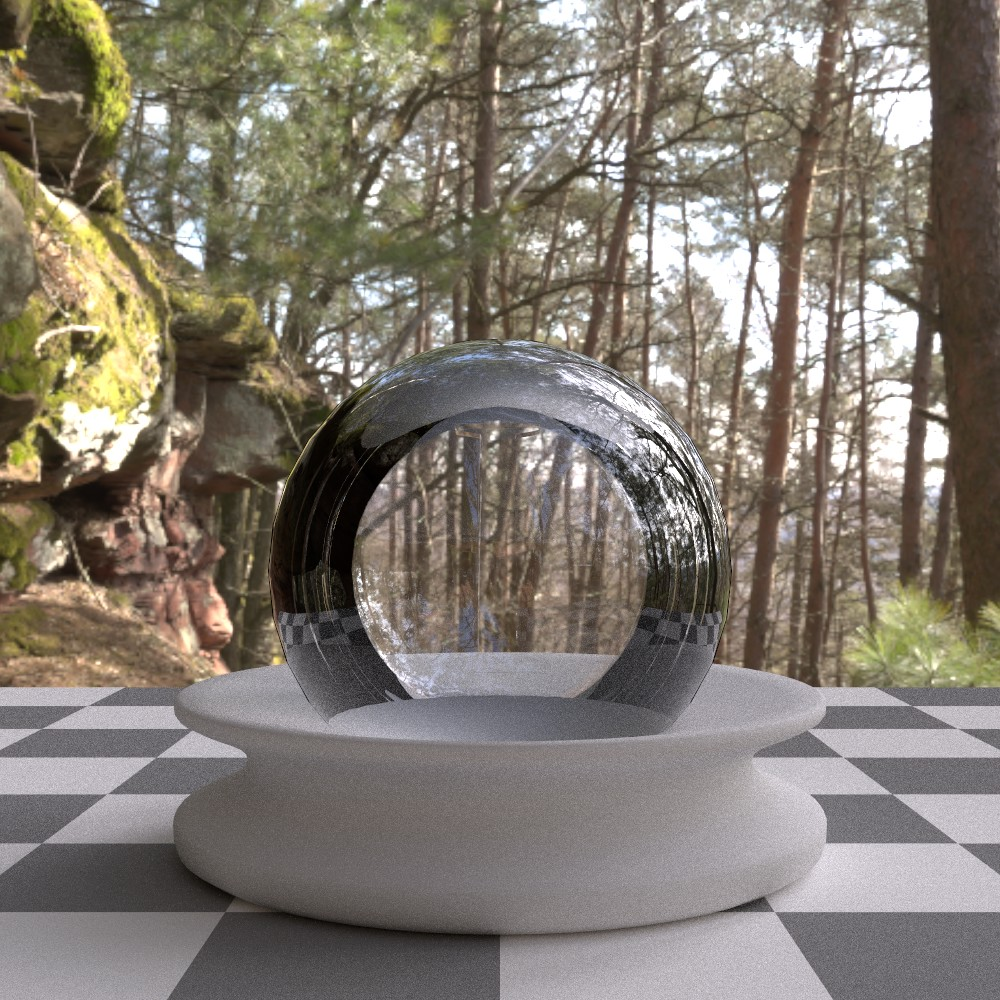
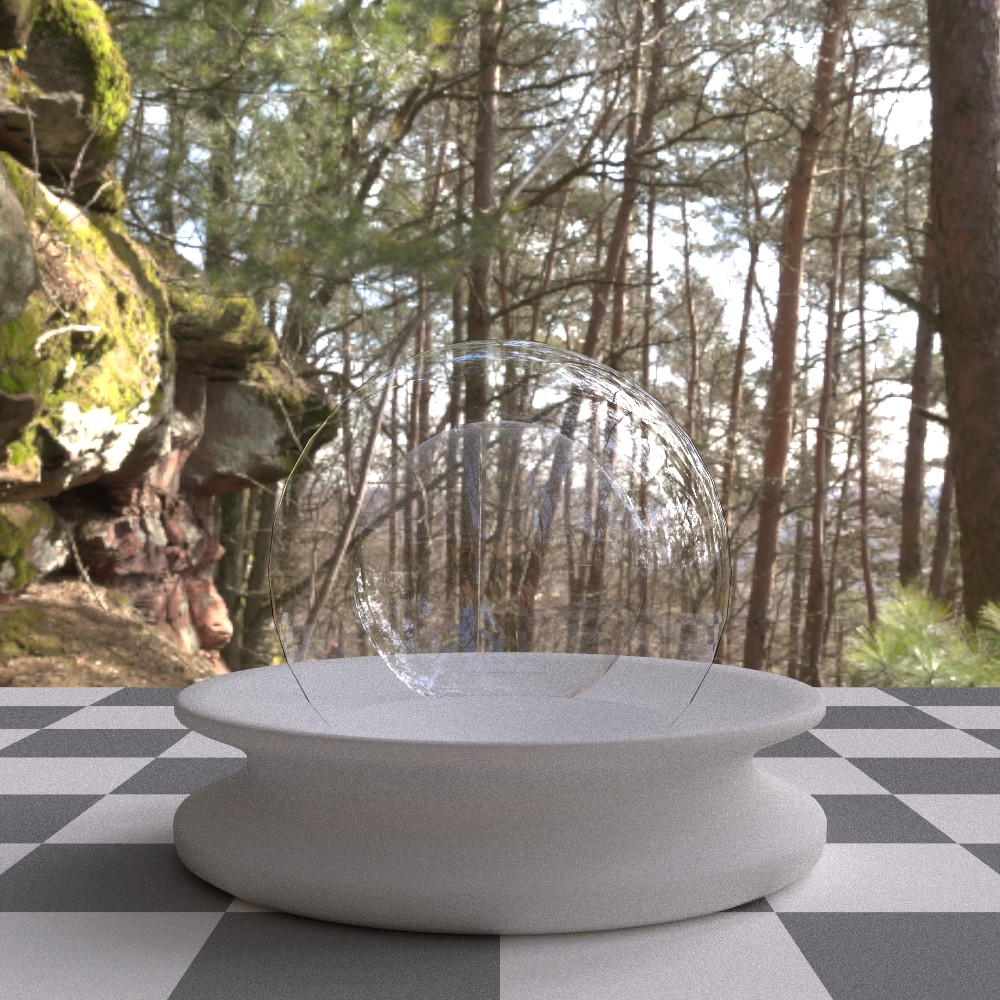
Fixed conductor & thin dielectric

Changed region(s): [[0.186, 0.341, 0.744, 0.744]]

diff --git a/src/backend/runtime/loader/LoaderBSDF.cpp b/src/backend/runtime/loader/LoaderBSDF.cpp
@@ -11,11 +11,13 @@
 
 namespace IG {
 
-constexpr float AIR_IOR            = 1.000277f;
-constexpr float GLASS_IOR          = 1.55f;
-constexpr float RUBBER_IOR         = 1.49f;
-constexpr float ETA_DEFAULT        = 0.63660f;
-constexpr float ABSORPTION_DEFAULT = 2.7834f;
+constexpr float AIR_IOR    = 1.000277f;
+constexpr float GLASS_IOR  = 1.55f;
+constexpr float RUBBER_IOR = 1.49f;
+
+// Gold from https://chris.hindefjord.se/resources/rgb-ior-metals/
+constexpr float ETA_DEFAULT[]        = { 0.18299f, 0.42108f, 1.37340f };
+constexpr float ABSORPTION_DEFAULT[] = { 3.4242f, 2.34590f, 1.77040f };
 
 static void setup_microfacet(const std::shared_ptr<Parser::Object>& bsdf, ShadingTree& tree)
 {
@@ -132,8 +134,8 @@ static void bsdf_conductor(std::ostream& stream, const std::string& name, const 
 {
     tree.beginClosure();
     tree.addColor("specular_reflectance", *bsdf, Vector3f::Ones());
-    tree.addNumber("eta", *bsdf, ETA_DEFAULT);
-    tree.addNumber("k", *bsdf, ABSORPTION_DEFAULT);
+    tree.addColor("eta", *bsdf, Vector3f(ETA_DEFAULT[0], ETA_DEFAULT[1], ETA_DEFAULT[2]));
+    tree.addColor("k", *bsdf, Vector3f(ABSORPTION_DEFAULT[0], ABSORPTION_DEFAULT[1], ABSORPTION_DEFAULT[2]));
 
     stream << tree.pullHeader()
            << "  let bsdf_" << ShaderUtils::escapeIdentifier(name) << " : BSDFShader = @|_ray, _hit, surf| make_conductor_bsdf(surf, "
@@ -148,8 +150,8 @@ static void bsdf_rough_conductor(std::ostream& stream, const std::string& name, 
 {
     tree.beginClosure();
     tree.addColor("specular_reflectance", *bsdf, Vector3f::Ones());
-    tree.addNumber("eta", *bsdf, ETA_DEFAULT);
-    tree.addNumber("k", *bsdf, ABSORPTION_DEFAULT);
+    tree.addColor("eta", *bsdf, Vector3f(ETA_DEFAULT[0], ETA_DEFAULT[1], ETA_DEFAULT[2]));
+    tree.addColor("k", *bsdf, Vector3f(ABSORPTION_DEFAULT[0], ABSORPTION_DEFAULT[1], ABSORPTION_DEFAULT[2]));
 
     setup_microfacet(bsdf, tree);
     stream << tree.pullHeader()

diff --git a/docs/src/scene/bsdfs.rst b/docs/src/scene/bsdfs.rst
@@ -182,8 +182,8 @@ Smooth conductor (:monosp:`conductor`)
 .. objectparameters::
 
  * - eta, k
-   - |number|
-   - none
+   - |color|
+   - ~ Gold
    - Real and imaginary components of the material's index of refraction.
  * - specular_reflectance
    - |color|
@@ -197,7 +197,7 @@ Smooth conductor (:monosp:`conductor`)
   :width: 90%
   :align: center
   
-  Conductor
+  Gold conductor
 
 .. subfigend::
   :width: 0.6
@@ -211,8 +211,8 @@ Rough conductor (:monosp:`roughconductor`)
 .. objectparameters::
 
  * - eta, k
-   - |number|
-   - none
+   - |color|
+   - ~ Gold
    - Real and imaginary components of the material's index of refraction.
  * - specular_reflectance
    - |color|
@@ -230,7 +230,7 @@ Rough conductor (:monosp:`roughconductor`)
   :width: 90%
   :align: center
   
-  Rough conductor
+  Rough gold conductor
 
 .. subfigend::
   :width: 0.6
@@ -332,7 +332,7 @@ Phong (:monosp:`phong`)
   :width: 0.6
   :label: fig-phong
 
-.. NOTE:: We do not recommend to use this bsdf for new projects as it disregards some PBR principles
+.. NOTE:: It is not recommended to use this bsdf for new projects as it disregards some PBR principles and is only included for legacy purposes.
 
 .. _bsdf-principled:
 
@@ -423,7 +423,7 @@ Blend (:monosp:`blend`)
 
  * - first, second
    - |bsdf|
-   - None
+   - *None*
    - TODO
  * - weight
    - |number|
@@ -451,7 +451,7 @@ Mask (:monosp:`mask`)
 
  * - bsdf
    - |bsdf|
-   - None
+   - *None*
    - TODO
  * - weight
    - |number|
@@ -483,7 +483,7 @@ Cutoff (:monosp:`cutoff`)
 
  * - bsdf
    - |bsdf|
-   - None
+   - *None*
    - TODO
  * - weight
    - |number|
@@ -538,7 +538,7 @@ Normal mapping (:monosp:`normalmap`)
 
  * - bsdf
    - |bsdf|
-   - None
+   - *None*
    - TODO
  * - map
    - |color|
@@ -570,11 +570,11 @@ Bump mapping (:monosp:`bumpmap`)
 
  * - bsdf
    - |bsdf|
-   - None
+   - *None*
    - TODO
  * - map
    - |texture|
-   - None
+   - *None*
    - A grayscale texture used for texture mapping.
  * - strength
    - |number|
@@ -602,7 +602,7 @@ Klems (:monosp:`klems`)
 
  * - filename
    - |string|
-   - None
+   - *None*
    - Path to a valid windows xml specifying a klems bsdf.
  * - base_color
    - |color|
@@ -620,7 +620,7 @@ TensorTree (:monosp:`tensortree`)
 
  * - filename
    - |string|
-   - None
+   - *None*
    - Path to a valid windows xml specifying a tensortree bsdf.
  * - base_color
    - |color|

diff --git a/README.md b/README.md
@@ -32,6 +32,7 @@ Have a look at [CPM](https://github.com/cpm-cmake/CPM.cmake) for more informatio
 
  - imgui <https://github.com/ocornut/imgui>
  - imgui-markdown <https://github.com/juliettef/imgui_markdown>
+ - PExpr <https://github.com/PearCoding/PExpr>
  - pugixml <https://github.com/zeux/pugixml>
  - RapidJSON <https://rapidjson.org/>
  - Simple Tag Preprocessor <https://github.com/PearCoding/stpp>
@@ -94,6 +95,8 @@ All available components are documented in the `docs/` folder. A documentation c
     cmake --build . -t ig_documentation
 
 from the `build/` folder.
+
+A quite recent version of the above documentation is available at: https://pearcoding.github.io/Ignis/ 
 
 ## Scene description
 

diff --git a/docs/src/scene/textures.rst b/docs/src/scene/textures.rst
@@ -142,7 +142,7 @@ Noise (:monosp:`noise`)
   :width: 0.6
   :label: fig-noise
 
-PNoise (:monosp:`pnoise`)
+Interpolated Noise (:monosp:`pnoise`)
 -------------------------
 
 Original noise used in legacy perlin implementation.
@@ -327,7 +327,7 @@ E.g., `color_tint` will be called `tint` inside the expression.
 
  * - expr
    - |string|
-   - None
+   - *None*
    - A :ref:`PExpr <PExpr>` based expression
 
 .. subfigstart::
@@ -349,7 +349,7 @@ Texture transform (:monosp:`transform`)
 
  * - texture
    - |color|
-   - None
+   - *None*
    - The texture the transform is applied to.
  * - transform
    - |transform|
